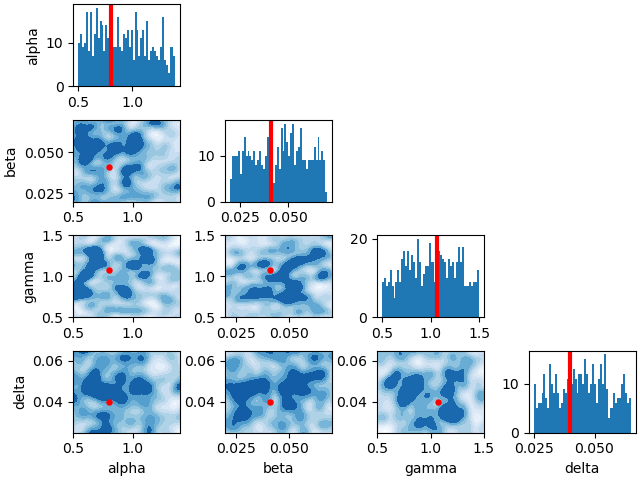
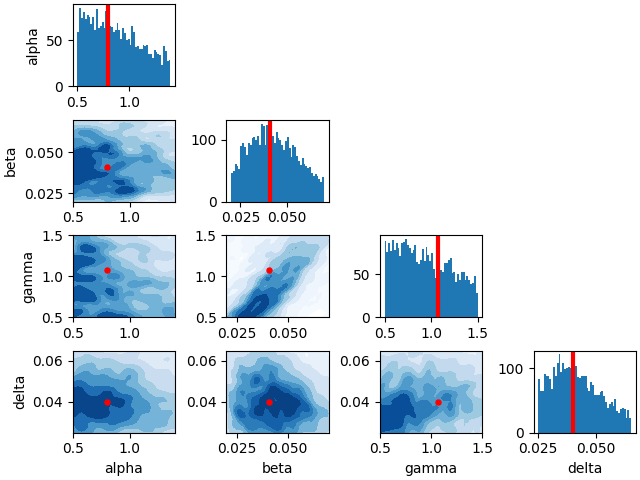
generic commit

diff --git a/scripts/transport/kvae_flow.py b/scripts/transport/kvae_flow.py
@@ -186,9 +186,11 @@ class CondTransportKernel(nn.Module):
             self.Y_mean = geq_1d(torch.tensor(base_params['Y_mean'], device=self.device, dtype=self.dtype))
             self.Y_var = geq_1d(torch.tensor(base_params['Y_var'], device=self.device, dtype=self.dtype))
 
-        self.X_mu = geq_1d(torch.tensor(base_params['X_mu'], device=self.device, dtype=self.dtype))[:self.params['batch_size']]
-        self.Y_mu = geq_1d(torch.tensor(base_params['Y_mu'], device=self.device, dtype=self.dtype))[:self.params['batch_size']]
+        self.X_mu = geq_1d(torch.tensor(base_params['X_mu'], device=self.device, dtype=self.dtype))
+        self.Y_mu = geq_1d(torch.tensor(base_params['Y_mu'], device=self.device, dtype=self.dtype))
         self.Y_target = torch.concat([deepcopy(self.X_mu), self.Y_mu], dim=1)
+
+        self.X_mu = self.X_mu[:self.params['batch_size']]
 
         self.X_var = torch.concat([self.X_mu, shuffle(self.Y_eta), self.Y_mean + self.Y_var], dim=1)
         self.X_mean = torch.concat([self.X_mu, self.Y_mean], dim=1)
@@ -276,7 +278,7 @@ class CondTransportKernel(nn.Module):
 
 
     def map_var(self, x_mu, y_eta, y_mean, y_var):
-        x_var = torch.concat([x_mu, shuffle(y_eta), y_mean], dim=1)
+        x_var = torch.concat([x_mu, shuffle(y_eta), y_mean + y_var], dim=1)
         Lambda_var = self.get_Lambda_var()
         z_var = self.fit_kernel(self.X_var, x_var).T @ Lambda_var
         return z_var
@@ -426,6 +428,9 @@ def comp_cond_kernel_transport(X_mu, Y_mu, Y_eta, Y_eta_test, X_mu_test, Y_mu_te
         iters = model.iters
         approx = True
         E_mmd_yy = model.E_mmd_YY
+    Y_test = Y_mean_test, Y_var_test
+    gen_map = np.concatenate([torch.tensor(X_mu_test), torch.tensor(Y_test)])
+    sample_hmap(gen_map, 'test_gen_map.png', range = [[-3,3],[-3,3]], vmax=.25, bins = 50)
     return Comp_transport_model(model_params)
 
 
@@ -470,7 +475,7 @@ def train_cond_transport(ref_gen, target_gen, params, N, n_iter = 101, process_f
 
         trained_models.append(cond_model_trainer(X_mu, Y_mu, Y_eta, Y_eta_test, X_mu_test, Y_mu_test,
                                                  params = params, n_iter = n_iter, reg_lambda = reg_lambda,
-                                                 n = n_transports, batch_size = batch_size))
+                                               n = n_transports, batch_size = batch_size))
     return trained_models
 
 
@@ -526,6 +531,9 @@ def conditional_transport_exp(ref_gen, target_gen, N = 10000, n_iter = 1001, vma
      ref_sample = ref_gen(N_plot)
 
      gen_sample = compositional_gen(trained_models, ref_sample, target_sample, idx_dict)
+
+     test_mmd = trained_models[0].mmd(gen_sample, target_sample)
+     print(f'Test mmd was {format(float(test_mmd.detach().cpu()),4)}')
 
      if len(process_funcs):
          backward = process_funcs[1]
@@ -712,13 +720,15 @@ def vl_exp(N=10000, n_iter=51, Yd=18, normal=True, exp_name='kvl_exp2', n_transp
 
 
 def run():
-    #ref_gen = sample_spirals
-    #N = 2000
-    #batch_size = 5000
-    #two_d_exp(ref_gen, sample_spirals, N=N, n_iter=49, plt_range=[[-3, 3], [-3, 3]], process_funcs=[],
-              #skip_idx=1, slice_vals=[-1,0,1], slice_range=[-3,3], exp_name='exp', n_transports=200, vmax=.15,
-              #batch_size = batch_size, reg_lambda= 1e-5, N_plot = 10000)
-    vl_exp(batch_size=9000, n_transports=200)
+    ref_gen = sample_normal
+    N = 2000
+    batch_size = 2000
+    two_d_exp(ref_gen, sample_swiss_roll, N=N, n_iter=49, plt_range=[[-3, 3], [-3, 3]], process_funcs=[],
+              skip_idx=1, slice_vals=[0], slice_range=[-3,3], exp_name='exp', n_transports=60, vmax=.25,
+              batch_size = batch_size, reg_lambda= 1e-5, N_plot = 5000)
+
+
+    #vl_exp(batch_size=9000, n_transports=200)
 
     #vl_exp(N = 20000, batch_size=4000, n_transports=150, n_iter=51, exp_name='kvl_exp')
     #0.0008
